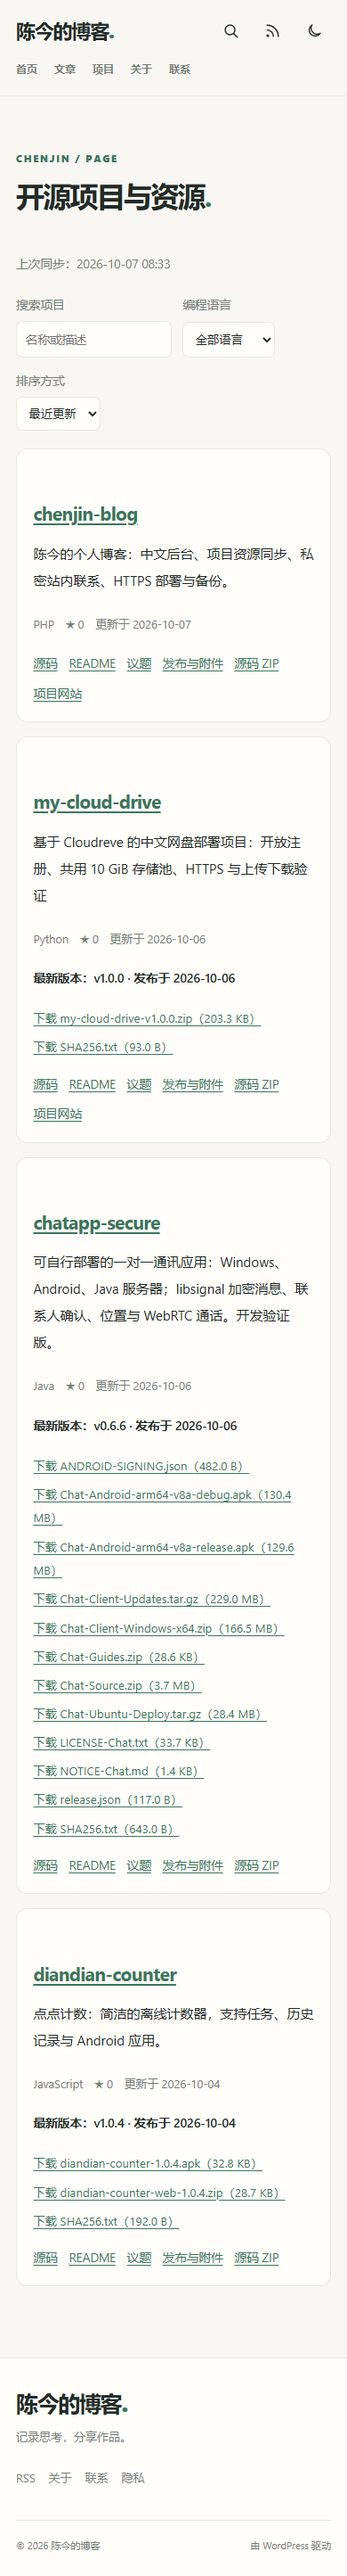
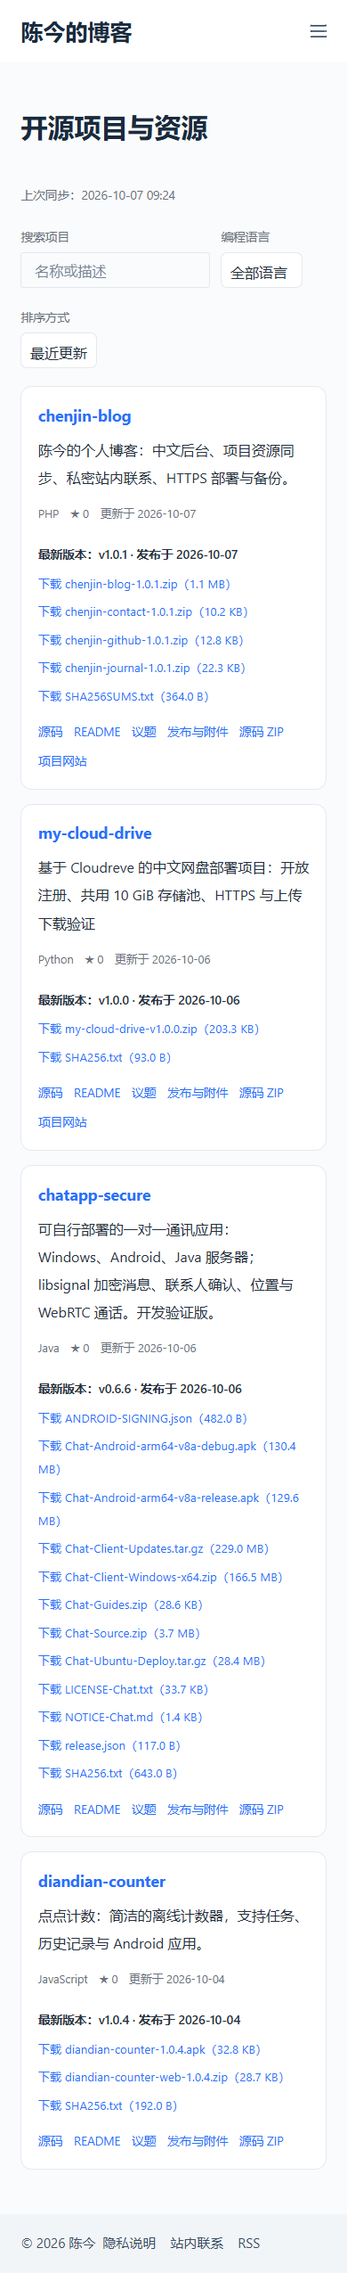
Adopt Blocksy News with Chinese article layout and preserved private contact

diff --git a/wp-content/themes/chenjin-news/style.css b/wp-content/themes/chenjin-news/style.css
@@ -1,0 +1,41 @@
+/*
+Theme Name: Chenjin News
+Description: 陈今的中文博客，基于官方 Blocksy 的 News 文章布局。
+Author: 陈今
+Version: 1.1.0
+Template: blocksy
+Requires at least: 6.7
+Requires PHP: 7.4
+License: GPL-2.0-or-later
+Text Domain: chenjin-news
+*/
+:root{--ws-text:#26313d;--ws-muted:#6b7280;--ws-accent:#2872fa;--ws-surface:#fff;--ws-border:#e5e9ef;--theme-font-family:system-ui,-apple-system,"Segoe UI","PingFang SC","Microsoft YaHei",sans-serif}
+body{font-family:var(--theme-font-family);background:#f7f8fa}
+.chenjin-news-intro{margin-bottom:40px;padding-bottom:28px;border-bottom:1px solid #e5e9ef}
+.chenjin-news-intro .chenjin-news-label{font-size:12px;letter-spacing:.18em;color:#2872fa;margin-bottom:12px}
+.chenjin-news-intro h1{font-size:clamp(28px,4vw,42px);line-height:1.4;letter-spacing:-.025em;margin-bottom:12px}
+.chenjin-news-intro p{color:#6b7280;margin:0;line-height:1.8}
+.chenjin-news-intro a{display:inline-block;margin-top:14px;font-size:14px;font-weight:600}
+.entry-card{overflow:hidden;border-radius:12px!important;box-shadow:0 8px 24px rgba(22,34,52,.035)!important}
+.entry-card .entry-title{font-size:26px;line-height:1.55;overflow-wrap:anywhere}
+.entry-card .entry-meta{font-size:13px}
+.ct-header [data-row="middle"]{--height:88px}
+.entry-card .entry-excerpt{line-height:1.9}
+.home .entries{display:grid;grid-template-columns:repeat(2,minmax(0,1fr));gap:32px}
+.home .entry-card{background:#fff}
+.home .entries .entry-card{--theme-heading-2-font-size:26px}
+.chenjin-news-all{text-align:center;margin:36px 0 0;font-size:14px;font-weight:600}
+.chenjin-news-cover{display:block;width:100%;aspect-ratio:16/9;overflow:hidden;background:#edf2f8}
+.chenjin-news-cover img{width:100%;height:100%;object-fit:cover;transition:transform .3s ease}
+.chenjin-news-cover:hover img{transform:scale(1.025)}
+.entry-content{line-height:1.95;overflow-wrap:anywhere}
+.entry-content h2,.entry-content h3{scroll-margin-top:90px}
+.chenjin-news-toc{padding:20px 24px;background:#f4f6fa;border:1px solid #e5e9ef;border-radius:10px;margin:0 0 30px;font-size:14px}
+.chenjin-news-toc summary{font-weight:600;cursor:pointer}.chenjin-news-toc ol{margin:12px 0 0;padding-left:20px}.chenjin-news-toc li{margin:5px 0}.chenjin-news-toc .toc__sub{margin-left:14px}
+.entry-content pre{position:relative;overflow:auto;padding-top:44px}
+.copy-code{position:absolute;right:10px;top:8px;min-height:28px;padding:3px 10px;font-size:12px;border-radius:5px}
+.ct-footer-copyright a{margin-left:14px}
+.ws-project-controls input,.ws-project-controls select{max-width:100%}
+:focus-visible{outline:2px solid #2872fa;outline-offset:3px}
+@media(max-width:689px){.home .entries{grid-template-columns:minmax(0,1fr);gap:24px}.chenjin-news-intro{margin-bottom:25px;padding-bottom:22px}.entry-card .entry-title{font-size:21px}.chenjin-news-toc{padding:16px}.ct-footer-copyright a{display:inline-block;margin:8px}}
+@media(prefers-reduced-motion:reduce){.chenjin-news-cover img{transition:none}}

diff --git a/wp-content/themes/chenjin-news/reading.js b/wp-content/themes/chenjin-news/reading.js
@@ -1,0 +1,29 @@
+(() => {
+  const content = document.querySelector('.single-post .entry-content');
+  if (!content) return;
+  const headings = [...content.querySelectorAll('h2,h3')];
+  if (headings.length) {
+    const toc = document.createElement('details');
+    toc.className = 'chenjin-news-toc'; toc.open = true;
+    const summary = document.createElement('summary'); summary.textContent = '文章目录';
+    const list = document.createElement('ol');
+    headings.forEach((heading, index) => {
+      if (!heading.id) heading.id = `chenjin-section-${index + 1}`;
+      const item = document.createElement('li');
+      if (heading.tagName === 'H3') item.className = 'toc__sub';
+      const link = document.createElement('a'); link.href = '#' + encodeURIComponent(heading.id); link.textContent = heading.textContent.trim();
+      item.append(link); list.append(item);
+    });
+    toc.append(summary, list); content.prepend(toc);
+  }
+  content.querySelectorAll('pre').forEach(pre => {
+    const code = pre.querySelector('code');
+    if (!code || !navigator.clipboard) return;
+    const button = document.createElement('button'); button.type = 'button'; button.className = 'copy-code'; button.textContent = '复制'; button.setAttribute('aria-label', '复制代码');
+    button.addEventListener('click', async () => {
+      try { await navigator.clipboard.writeText(code.textContent); button.textContent = '已复制'; setTimeout(() => { button.textContent = '复制'; }, 2000); }
+      catch (_) { button.textContent = '复制失败'; }
+    });
+    pre.append(button);
+  });
+})();

diff --git a/wp-content/themes/chenjin-news/functions.php b/wp-content/themes/chenjin-news/functions.php
@@ -1,0 +1,52 @@
+<?php
+/** Preserve the mature parent's templates and add only site-specific presentation. */
+if ( ! defined( 'ABSPATH' ) ) { exit; }
+
+// Pagination belongs to the native article archive, not the static homepage.
+add_action( 'template_redirect', function () {
+    $page = max( (int) get_query_var( 'paged' ), (int) get_query_var( 'page' ) );
+    if ( is_front_page() && $page > 1 && get_option( 'page_for_posts' ) ) {
+        wp_safe_redirect( trailingslashit( get_permalink( (int) get_option( 'page_for_posts' ) ) ) . 'page/' . $page . '/', 301 );
+        exit;
+    }
+}, 5 );
+
+add_action( 'wp_enqueue_scripts', function () {
+    wp_enqueue_style( 'chenjin-news', get_stylesheet_uri(), array( 'ct-main-styles' ), wp_get_theme()->get( 'Version' ) );
+    if ( is_singular( 'post' ) ) {
+        wp_enqueue_script( 'chenjin-news-reading', get_stylesheet_directory_uri() . '/reading.js', array(), wp_get_theme()->get( 'Version' ), true );
+    }
+}, 20 );
+
+function chenjin_news_intro() {
+    $front = ! empty( $GLOBALS['chenjin_news_front'] );
+    ?>
+    <div class="chenjin-news-intro">
+        <p class="chenjin-news-label">陈今 · 个人博客</p>
+        <h1><?php echo $front ? '记录开发，分享创作。' : '文章与记录'; ?></h1>
+        <p>技术笔记、开源项目，以及值得留下的想法。</p>
+        <a href="<?php echo esc_url( home_url( '/projects/' ) ); ?>">浏览全部开源项目与资源 <span aria-hidden="true">→</span></a>
+    </div>
+    <?php
+}
+add_action( 'blocksy:archive:top', function () {
+    if ( is_home() ) { chenjin_news_intro(); }
+} );
+
+// Decorative local covers for posts without an uploaded featured image.
+add_filter( 'post_thumbnail_html', function ( $html, $post_id ) {
+    if ( $html || ( is_singular() && empty( $GLOBALS['chenjin_news_front'] ) ) ) { return $html; }
+    $slug = get_post_field( 'post_name', $post_id );
+    $cover = in_array( $slug, array( 'diandian-counter', 'chatapp-secure' ), true ) ? $slug : 'journal';
+    return '<a class="chenjin-news-cover" href="' . esc_url( get_permalink( $post_id ) ) . '" aria-label="' . esc_attr( get_the_title( $post_id ) ) . '"><img src="' . esc_url( get_stylesheet_directory_uri() . '/assets/' . $cover . '.svg' ) . '" alt="" width="960" height="540" loading="lazy"></a>';
+}, 10, 2 );
+
+add_filter( 'blocksy:footer:copyright:value', function () {
+    return '© {current_year} 陈今' . '<a href="' . esc_url( home_url( '/privacy/' ) ) . '">隐私说明</a><a href="' . esc_url( home_url( '/contact/' ) ) . '">站内联系</a><a href="' . esc_url( get_feed_link() ) . '">RSS</a>';
+} );
+
+add_action( 'wp_head', function () {
+    if ( ! has_site_icon() ) {
+        echo '<link rel="icon" type="image/svg+xml" href="' . esc_url( get_stylesheet_directory_uri() . '/assets/icon.svg' ) . '">';
+    }
+} );

diff --git a/deploy/configure-news.php b/deploy/configure-news.php
@@ -1,0 +1,38 @@
+<?php
+/** WP-CLI: configure only once, so future source updates retain owner's Customizer settings. */
+if ( get_option( 'chenjin_news_configured' ) ) { return; }
+if ( get_stylesheet() !== 'chenjin-news' || ! function_exists( 'blocksy_get_theme_mod' ) ) {
+    WP_CLI::error( 'Activate chenjin-news with the official Blocksy parent first.' );
+}
+foreach ( array( 'blog', 'categories', 'search', 'author' ) as $prefix ) {
+    set_theme_mod( $prefix . '_structure', 'grid' );
+    set_theme_mod( $prefix . '_columns', array( 'desktop' => 2, 'tablet' => 2, 'mobile' => 1 ) );
+    set_theme_mod( $prefix . '_card_type', 'boxed' );
+    set_theme_mod( $prefix . '_has_sidebar', 'no' );
+    set_theme_mod( $prefix . '_archive_order', array(
+        array( 'id' => 'featured_image', 'enabled' => true, 'thumb_ratio' => '16/9', 'is_boundless' => 'yes', 'image_size' => 'large', 'has_link' => 'yes' ),
+        array( 'id' => 'post_meta', '__id' => 'meta_1', 'enabled' => true, 'meta_type' => 'simple', 'meta_divider' => 'slash', 'meta_elements' => array( array( 'id' => 'categories', 'enabled' => true ), array( 'id' => 'post_date', 'enabled' => true ) ) ),
+        array( 'id' => 'title', 'enabled' => true, 'heading_tag' => 'h2', 'has_link' => 'yes' ),
+        array( 'id' => 'excerpt', 'enabled' => true, 'excerpt_length' => 55 ),
+        array( 'id' => 'read_more', 'enabled' => true, 'button_type' => 'simple', 'read_more_text' => '阅读全文', 'read_more_arrow' => 'yes' ),
+    ) );
+}
+set_theme_mod( 'blog_hero_enabled', 'no' );
+set_theme_mod( 'single_blog_post_has_author_box', 'no' );
+set_theme_mod( 'single_blog_post_has_share_box', 'no' );
+$palette = array( '#2872fa', '#1559ed', '#4b5563', '#1b2533', '#e5e9ef', '#f7f8fa', '#f7f8fa', '#ffffff' );
+$colors = array();
+foreach ( $palette as $i => $color ) { $colors['color' . ( $i + 1 )] = array( 'color' => $color ); }
+set_theme_mod( 'colorPalette', $colors );
+$menu = wp_get_nav_menu_object( '陈今导航' );
+if ( ! $menu ) {
+    $id = wp_create_nav_menu( '陈今导航' );
+    if ( is_wp_error( $id ) ) { WP_CLI::error( $id->get_error_message() ); }
+    foreach ( array( '首页' => '/', '文章' => '/articles/', '项目资源' => '/projects/', '关于' => '/about/', '站内联系' => '/contact/' ) as $label => $path ) {
+        wp_update_nav_menu_item( $id, 0, array( 'menu-item-title' => $label, 'menu-item-url' => home_url( $path ), 'menu-item-type' => 'custom', 'menu-item-status' => 'publish' ) );
+    }
+} else { $id = $menu->term_id; }
+set_theme_mod( 'nav_menu_locations', array( 'menu_1' => $id, 'menu_mobile' => $id ) );
+update_option( 'chenjin_news_configured', 1, false );
+update_option( 'date_format', 'Y.m.d' );
+WP_CLI::success( 'News layout configured. Articles, pages and private messages retained.' );

diff --git a/wp-content/themes/chenjin-news/front-page.php b/wp-content/themes/chenjin-news/front-page.php
@@ -1,0 +1,19 @@
+<?php
+/** The existing homepage URL shows the parent's real article cards, not imported demo content. */
+get_header();
+$GLOBALS['chenjin_news_front'] = true;
+$articles = new WP_Query( array(
+    'post_type' => 'post',
+    'post_status' => 'publish',
+    'posts_per_page' => get_option( 'posts_per_page' ),
+) );
+?>
+<div class="ct-container" data-vertical-spacing="top:bottom"><section>
+    <?php chenjin_news_intro(); ?>
+    <?php echo blocksy_render_archive_cards( array( 'query' => $articles, 'prefix' => 'blog', 'has_pagination' => false ) ); ?>
+    <p class="chenjin-news-all"><a href="<?php echo esc_url( get_permalink( (int) get_option( 'page_for_posts' ) ) ); ?>">查看全部文章 <span aria-hidden="true">→</span></a></p>
+</section></div>
+<?php
+wp_reset_postdata();
+unset( $GLOBALS['chenjin_news_front'] );
+get_footer();

diff --git a/README.md b/README.md
@@ -1,20 +1,20 @@
 # 陈今的个人博客
 
-以 [WordPress](https://github.com/WordPress/WordPress) 为成熟内容管理基础，提供中文后台、独立个人主题和 GitHub 开源资源目录。
+以 [WordPress](https://github.com/WordPress/WordPress) 为内容管理基础，采用 Blocksy 新闻风格主题与本仓库的 `chenjin-news` 子主题，提供中文后台和 GitHub 开源资源目录。
 
 **在线博客：<https://121.43.101.242/blog/>**
 
 **后台入口：<https://121.43.101.242/blog/wp-admin/>**
 
-**下载：** [部署源码、主题、插件与校验文件](https://github.com/wobuyaoquminga/chenjin-blog/releases/tag/v1.0.1)。
+**下载：** [v1.1.0 部署源码、News 子主题、插件与校验文件](https://github.com/wobuyaoquminga/chenjin-blog/releases/tag/v1.1.0)。
 
 ![博客首页](docs/screenshots/home-desktop.png)
 
 ## 功能
 
 - 文章：区块编辑器、草稿、修订、定时发布、分类、标签、特色图片、附件、搜索、分页与 RSS。
-- 阅读：响应式布局、深浅主题、文章目录、代码复制、上一篇/下一篇、评论与回复。评论需要站长审核。
-- 项目：自动同步 `wobuyaoquminga` 全部公开仓库；搜索、语言筛选、排序、源码、README、Issues、版本发布与源码 ZIP。私有仓库不公开。
+- 阅读：浅色新闻风格文章列表、响应式文章页、文章目录、代码复制、上一篇/下一篇、评论与回复。评论需要站长审核。
+- 项目：导航进入项目全目录，自动同步 `wobuyaoquminga` 全部公开仓库；搜索、语言筛选、排序、源码、README、Issues、版本发布与源码 ZIP。私有仓库不公开。
 - 管理：中文后台、菜单、Logo、媒体库、用户角色、导入/导出；站点与正文可以在后台修改。
 - 联系：无需邮箱的站内留言，只在站长后台保存与查看。
 - SEO：Slim SEO 自动生成元信息、社交分享标签与 sitemap。无需配置付费服务。
@@ -25,14 +25,15 @@
 WordPress 7.1.2 / PHP 8.3 / MySQL 8 / Nginx / WP-CLI 2.12.0。生产服务器已有 Nginx、MySQL 和受信任的 IP HTTPS 证书，本项目复用这些基础设施。
 
 ```text
-wp-content/themes/chenjin-journal/   原创中文主题
+wp-content/themes/chenjin-news/      Blocksy 子主题，本仓库维护
+wp-content/themes/chenjin-journal/   旧主题，保留供回退
 wp-content/plugins/chenjin-github/   GitHub 公开资源同步插件
 deploy/                            安装、更新、备份和服务器配置
 tests/                             公网与浏览器验收
 docs/                              使用、恢复、验证与截图
 ```
 
-这里发布定制主题、插件与部署代码。WordPress 内核和第三方插件从各自官方渠道安装，保留原许可证，避免将数据库、账号、上传附件和服务器秘密混入源码仓库。
+这里发布子主题、旧主题、插件与部署代码。Blocksy 父主题、WordPress 内核和第三方插件从各自官方渠道安装，保留原许可证，避免将数据库、账号、上传附件和服务器秘密混入源码仓库。切换主题不删除现有文章、GitHub 项目插件或站内联系数据。
 
 ## 安装与更新
 
@@ -40,7 +41,7 @@ docs/                              使用、恢复、验证与截图
 
 ```bash
 sudo bash deploy/install.sh
-# 已安装后，只更新本仓库的主题与插件：
+# 已安装后，更新本仓库的子主题与插件：
 sudo bash deploy/update.sh
 ```
 
@@ -54,6 +55,7 @@ sudo bash deploy/update.sh
 find wp-content deploy -name '*.php' -exec php -l {} \;
 php wp-content/plugins/chenjin-github/test-sync.php
 node --check wp-content/themes/chenjin-journal/theme.js
+node --check wp-content/themes/chenjin-news/reading.js
 node --check wp-content/plugins/chenjin-github/projects.js
 bash -n deploy/install.sh deploy/update.sh deploy/backup.sh
 ```
@@ -62,7 +64,7 @@ bash -n deploy/install.sh deploy/update.sh deploy/backup.sh
 
 ## 许可证与贡献
 
-自定义主题、插件和部署代码使用 GPL-2.0-or-later；WordPress 与第三方插件保留其原许可证。博客文章、截图中的个人资料和项目下载资源分别适用其自身声明，不因这个源码许可证自动变成可任意再发布的内容。
+自定义主题、插件和部署代码使用 GPL-2.0-or-later；WordPress、Blocksy 父主题与第三方插件保留其原许可证。博客文章、截图中的个人资料和项目下载资源分别适用其自身声明，不因这个源码许可证自动变成可任意再发布的内容。
 
 见 [贡献说明](CONTRIBUTING.md)、[安全说明](SECURITY.md)、[更新记录](CHANGELOG.md) 和 [第三方来源](THIRD-PARTY.md)。
 

diff --git a/docs/USER-GUIDE.md b/docs/USER-GUIDE.md
@@ -10,15 +10,16 @@
 4. 点击预览，再发布；可保存草稿或修改发布时间以定时发布。
 5. 已发布文章可以重新编辑，修订记录可恢复旧内容。
 
-文章页自动生成二级、三级标题目录。代码区块支持复制。中文搜索通过站点搜索框使用。
+文章页自动生成二级、三级标题目录，代码区块支持复制。中文搜索通过站点搜索框使用。文章和评论仍在 WordPress 后台管理，不因主题切换而迁移或删除。
 
 ## 修改首页与个人信息
 
+- 首页展示最新文章；「查看全部文章」进入支持分页的原生文章列表，项目导航进入项目全目录。
 - 「设置 → 常规」：站点名称与副标题。
 - 「用户 → 个人资料」：显示名称和密码。
 - 「页面」：编辑关于、隐私说明、项目页。项目页保留 `[ws_projects]` 即可自动展示。
-- 「外观 → 自定义」：站点 Logo。
-- 「外观 → 菜单」：可设置主导航与页脚导航。未设置时主题提供默认导航。
+- 「外观 → 自定义」：调整 Blocksy 外观与站点 Logo；`chenjin-news` 子主题提供本站的新闻风格样式。
+- 「外观 → 菜单」：设置主导航与页脚导航。
 
 ## 项目与资源
 
@@ -34,7 +35,7 @@
 
 ## 维护
 
-WordPress 安全与小版本更新自动安装；核心大版本、定制主题与插件需要备份后检查。第三方 SEO 和登录限制插件开启自动更新。升级前可运行服务器备份脚本。不要删除「陈今的 GitHub 项目」插件，否则项目短码会失效。
+WordPress 安全与小版本更新自动安装；核心大版本、`chenjin-news` 子主题与自定义插件需要备份后检查。Blocksy 父主题通过 WordPress 官方渠道自动更新，子主题由本仓库维护；第三方 SEO 和登录限制插件开启自动更新。升级前可运行服务器备份脚本。若需回退页面外观，可在「外观 → 主题」启用保留的 `chenjin-journal` 旧主题。不要删除「陈今的 GitHub 项目」插件，否则项目短码会失效。
 
 本站不使用个人邮箱、邮件通知或邮箱找回密码。管理员如需重置密码，请通过服务器 WP-CLI 操作，并将新密码保存在自己的密码管理器中。
 

diff --git a/THIRD-PARTY.md b/THIRD-PARTY.md
@@ -1,9 +1,11 @@
 # 第三方来源
 
 - [WordPress](https://github.com/WordPress/WordPress)：成熟博客/CMS 内核，GPL-2.0-or-later，官方发布包通过 WordPress 官方下载渠道安装；部署基线 7.1.2。
+- [Blocksy](https://wordpress.org/themes/blocksy/)：`chenjin-news` 新闻风格子主题所依赖的父主题，从 WordPress 官方主题目录安装并开启官方更新；许可证以官方主题包声明为准。
+- [Blocksy News](https://creativethemes.com/blocksy/starter-site/news/)：所选的外观参考；使用父主题的原生文章卡片配置布局，未导入演示文章、第三方表单或图库。
 - [WP-CLI](https://github.com/wp-cli/wp-cli)：WordPress 命令行工具，MIT；部署基线 2.12.0，安装使用官方发布物及 SHA-256 校验。
 - [Slim SEO](https://wordpress.org/plugins/slim-seo/)：SEO 元信息与 sitemap，由 WordPress 官方插件目录安装，许可以插件包声明为准。
 - [Limit Login Attempts Reloaded](https://wordpress.org/plugins/limit-login-attempts-reloaded/)：登录重试限制，由 WordPress 官方插件目录安装，许可以插件包声明为准。
 - Nginx、PHP、MySQL：使用 Ubuntu 和服务器既有软件源，保留各自许可证。
 
-自定义主题与插件为本项目实现，未复制第三方付费主题、字体、图标包或图库。所有项目下载链接指向原始 GitHub 仓库，其源码和发布包遵守各自许可证。
+`chenjin-news` 子主题、保留供回退的 `chenjin-journal` 旧主题与自定义插件由本项目维护，未复制第三方付费主题、字体、图标包或图库。所有项目下载链接指向原始 GitHub 仓库，其源码和发布包遵守各自许可证。

diff --git a/docs/VALIDATION.md b/docs/VALIDATION.md
@@ -2,6 +2,19 @@
 
 首次验收：2026-10-06；身份与导航修复复验：2026-10-07。访问入口：<https://121.43.101.242/blog/>。
 
+## News 主题复验（1.1.0，2026-10-07）
+
+- 生产运行 Blocksy 2.1.58 官方父主题与 Chenjin News 1.1.0 子主题；父主题自动更新已开启，官方简体中文语言包已安装。旧主题保留未删除。
+- 切换前运行完整备份；保留文章、页面、项目缓存、联系数据与后台账号。部署配置只初始化一次，后续更新保留站长的自定义设置。
+- Chrome 验证桌面两列文章卡片与本地 SVG 封面，手机单列无水平溢出，手机菜单可进入项目资源页。
+- 文章列表、中文搜索与无结果状态、404、全部四个公开仓库、下载入口、项目搜索/语言筛选/排序通过。
+- 实际草稿发布、测试图片上传、文章目录、代码复制至剪贴板、访客评论与管理员审核通过；临时文章、媒体和评论删除。
+- 无邮箱联系表单、nonce 拒绝、匿名提交、管理员私密查看，以及搜索/feed/REST 隔离再次通过；测试来信移入回收站。
+- 子主题 PHP 与 JavaScript 语法、项目同步检查、联系验证检查通过。
+- 同一生产站点重复运行更新脚本成功：已启用的父主题自动更新无需重复设置，已配置的 News 外观不会重新初始化。
+
+下方深浅模式记录属于原 1.0.x 主题；1.1.0 使用所选 News 浅色风格。
+
 ## 已完成
 
 - 保留旧网盘 Service Worker 的真实浏览器复现了博客错误页；更新真实服务器 worker 后，同一浏览器的已打开博客页自动恢复为 WordPress，网盘根入口仍正常。

diff --git a/CHANGELOG.md b/CHANGELOG.md
@@ -1,5 +1,11 @@
 # 更新记录
 
+## 1.1.0 — 2026-10-07
+
+- 默认主题改为官方 Blocksy 父主题配合本仓库维护的 `chenjin-news` 浅色新闻风格子主题；首页展示文章列表，项目导航进入全目录，父主题由官方渠道自动更新。
+- 保留 `chenjin-journal` 旧主题供回退；现有文章、GitHub 项目插件及无需个人邮箱的站内联系继续保留。
+- 配置中文导航、官方中文语言包、文章封面、文章目录与代码复制，更新桌面与手机截图。
+
 ## 1.0.1 — 2026-10-07
 
 - 统一使用虚拟名称“陈今”，移除真实邮箱及旧身份展示。
